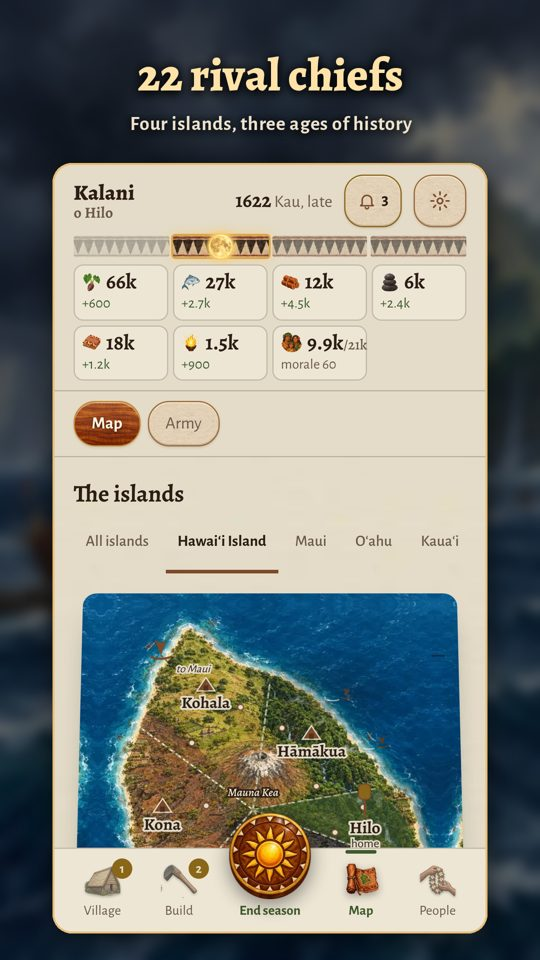
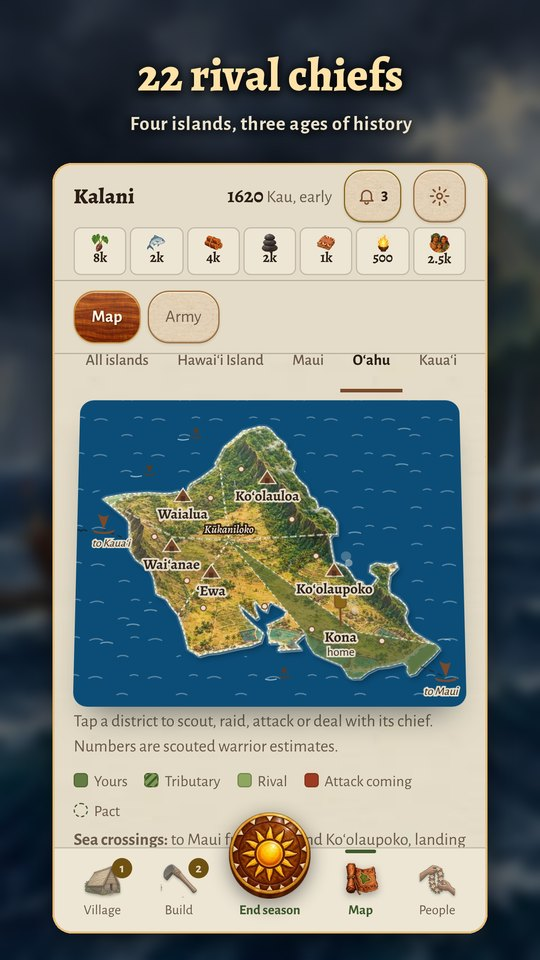
Aliʻi page: map screenshot shows the 5.1.1 real-coastline Oʻahu
Claude-Session: https://claude.ai/code/session_013z2ydSFxaMUs1ZUjegomNp

diff --git a/alii/index.html b/alii/index.html
@@ -103,7 +103,7 @@ footer{color:var(--muted);font-size:.92rem;border-top:1px solid var(--line);padd
     <h2>Screenshots</h2>
     <div class="shots">
       <a href="img/1_village.jpg"><img src="img/1_village.jpg" alt="Village screen" width="540" height="960" loading="lazy"></a>
-      <a href="img/2_map.jpg"><img src="img/2_map.jpg" alt="Island map" width="540" height="960" loading="lazy"></a>
+      <a href="img/2_map.jpg"><img src="img/2_map.jpg" alt="Island map of Oʻahu with its real coastline" width="540" height="960" loading="lazy"></a>
       <a href="img/3_battle.jpg"><img src="img/3_battle.jpg" alt="Tactical battle" width="540" height="960" loading="lazy"></a>
       <a href="img/4_envoy.jpg"><img src="img/4_envoy.jpg" alt="An envoy from a rival chief" width="540" height="960" loading="lazy"></a>
       <a href="img/5_chief.jpg"><img src="img/5_chief.jpg" alt="Your chief" width="540" height="960" loading="lazy"></a>
